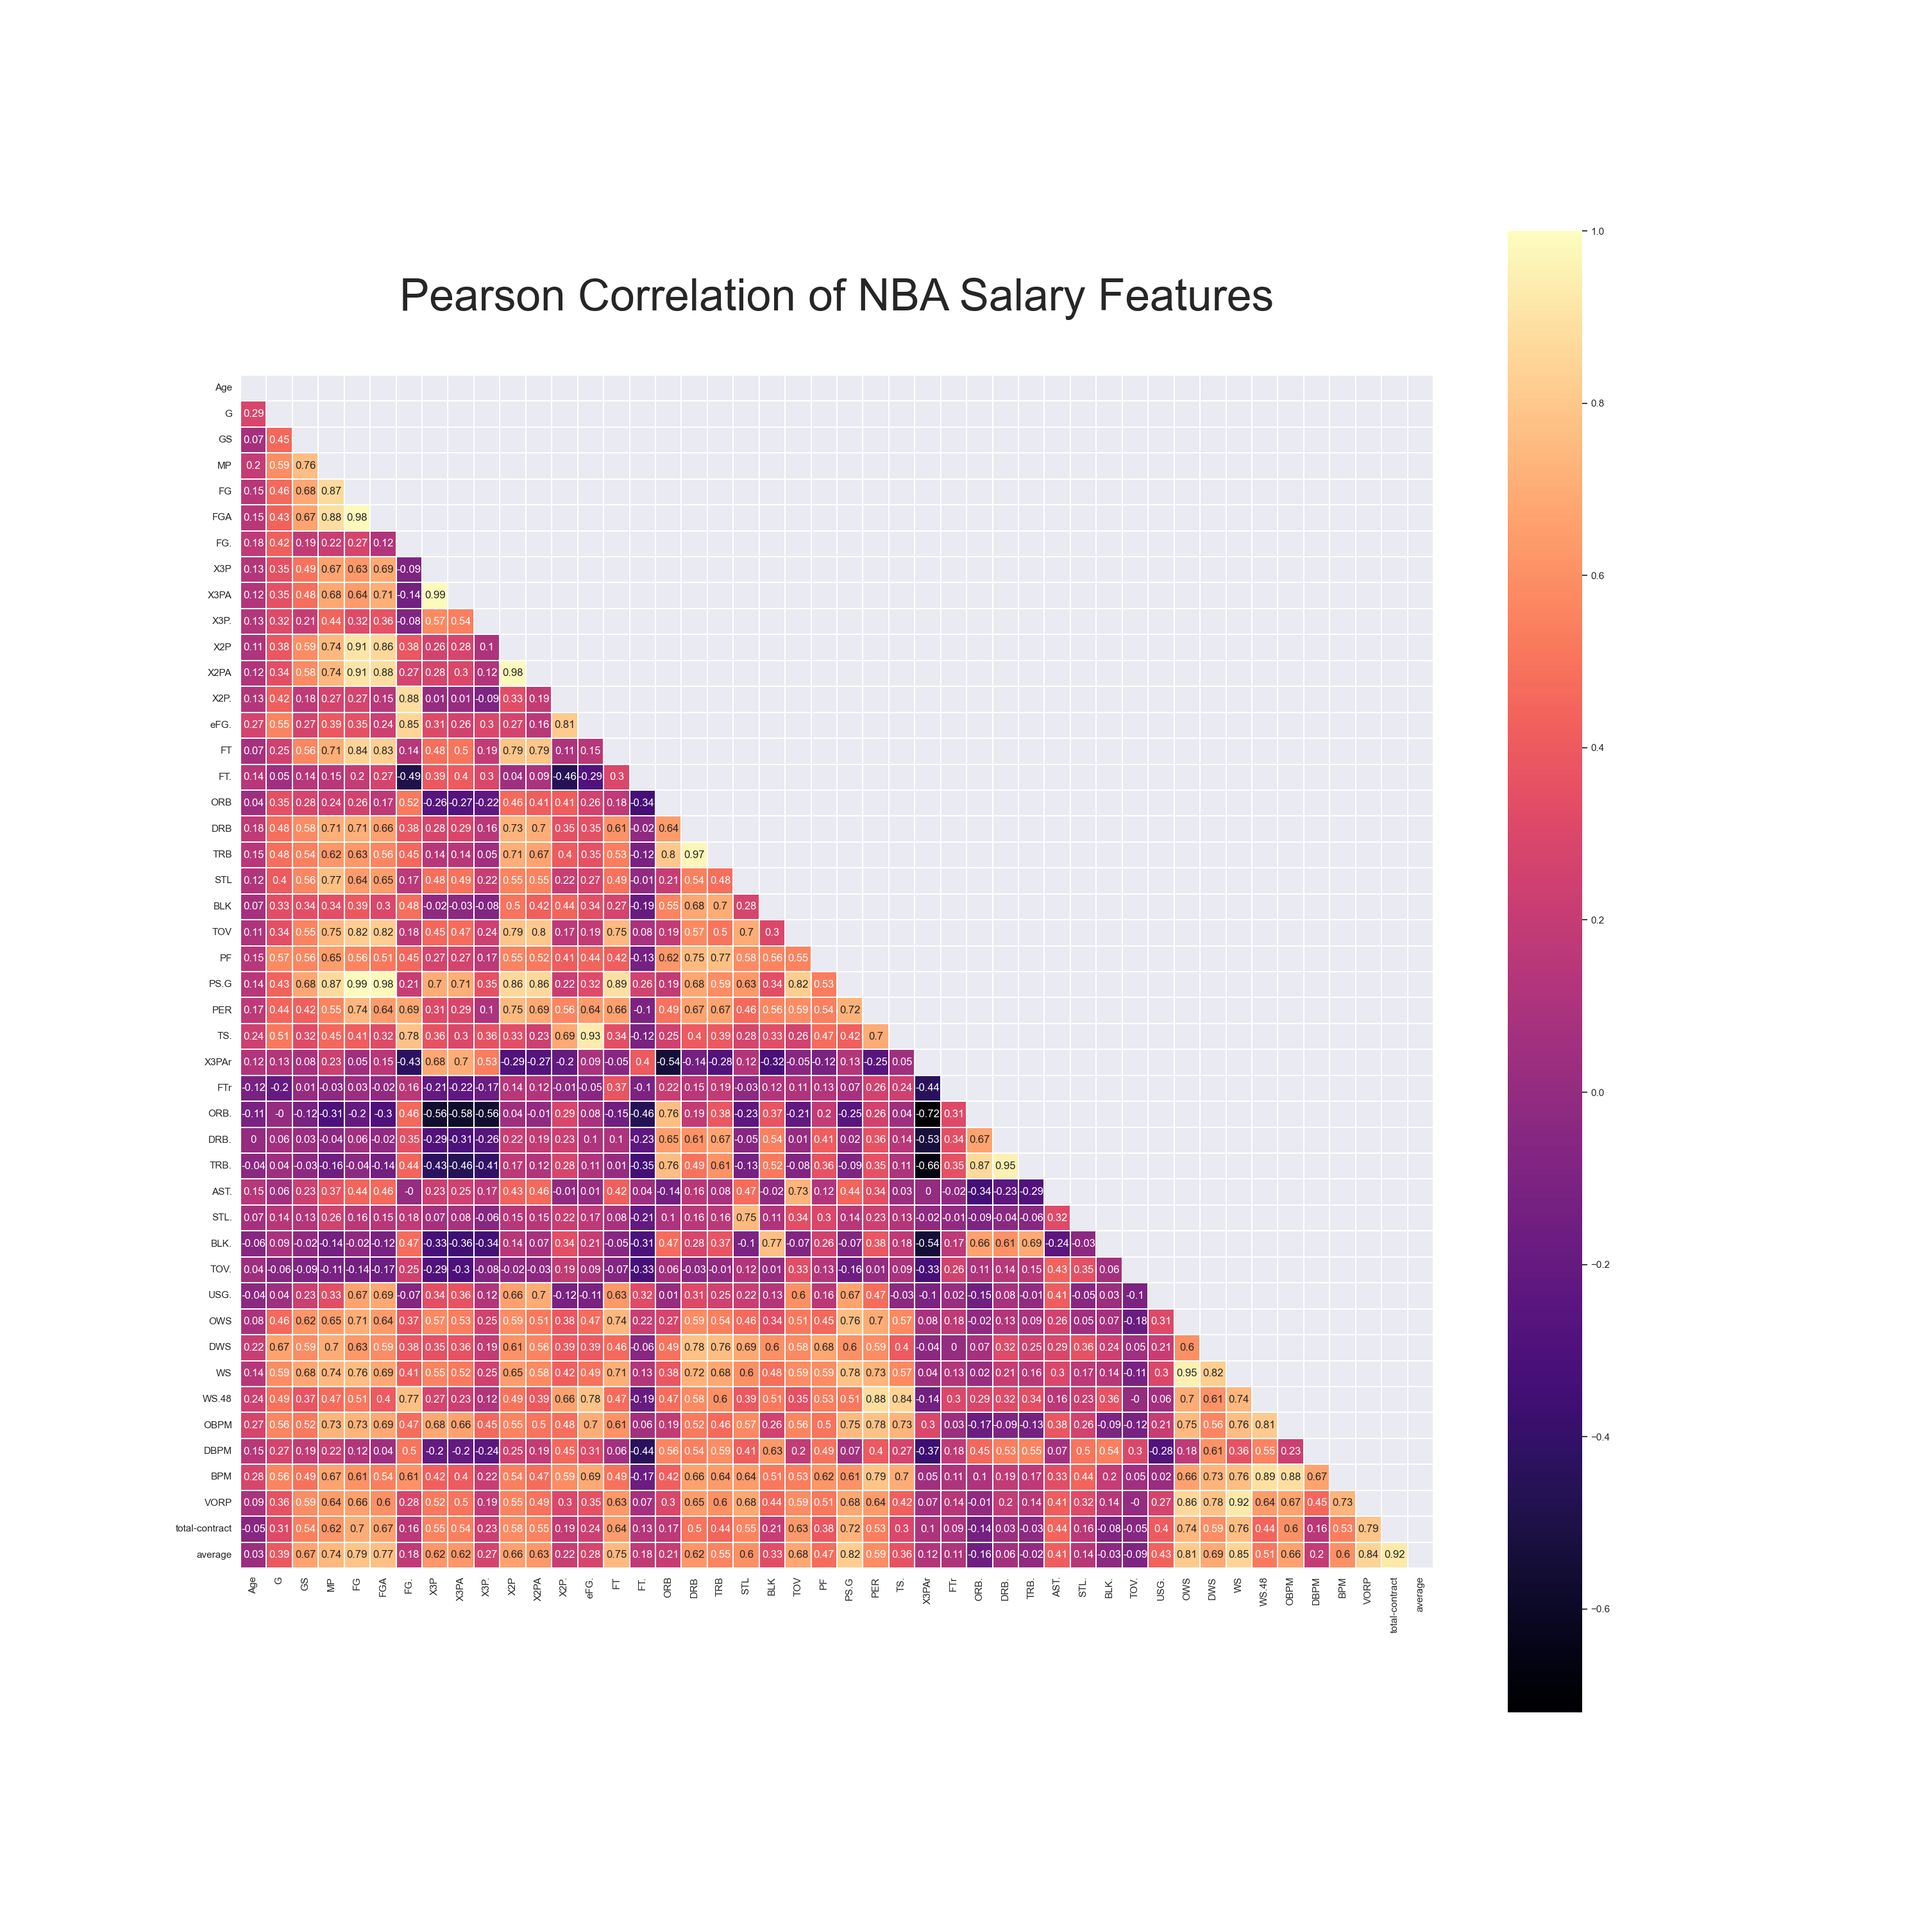
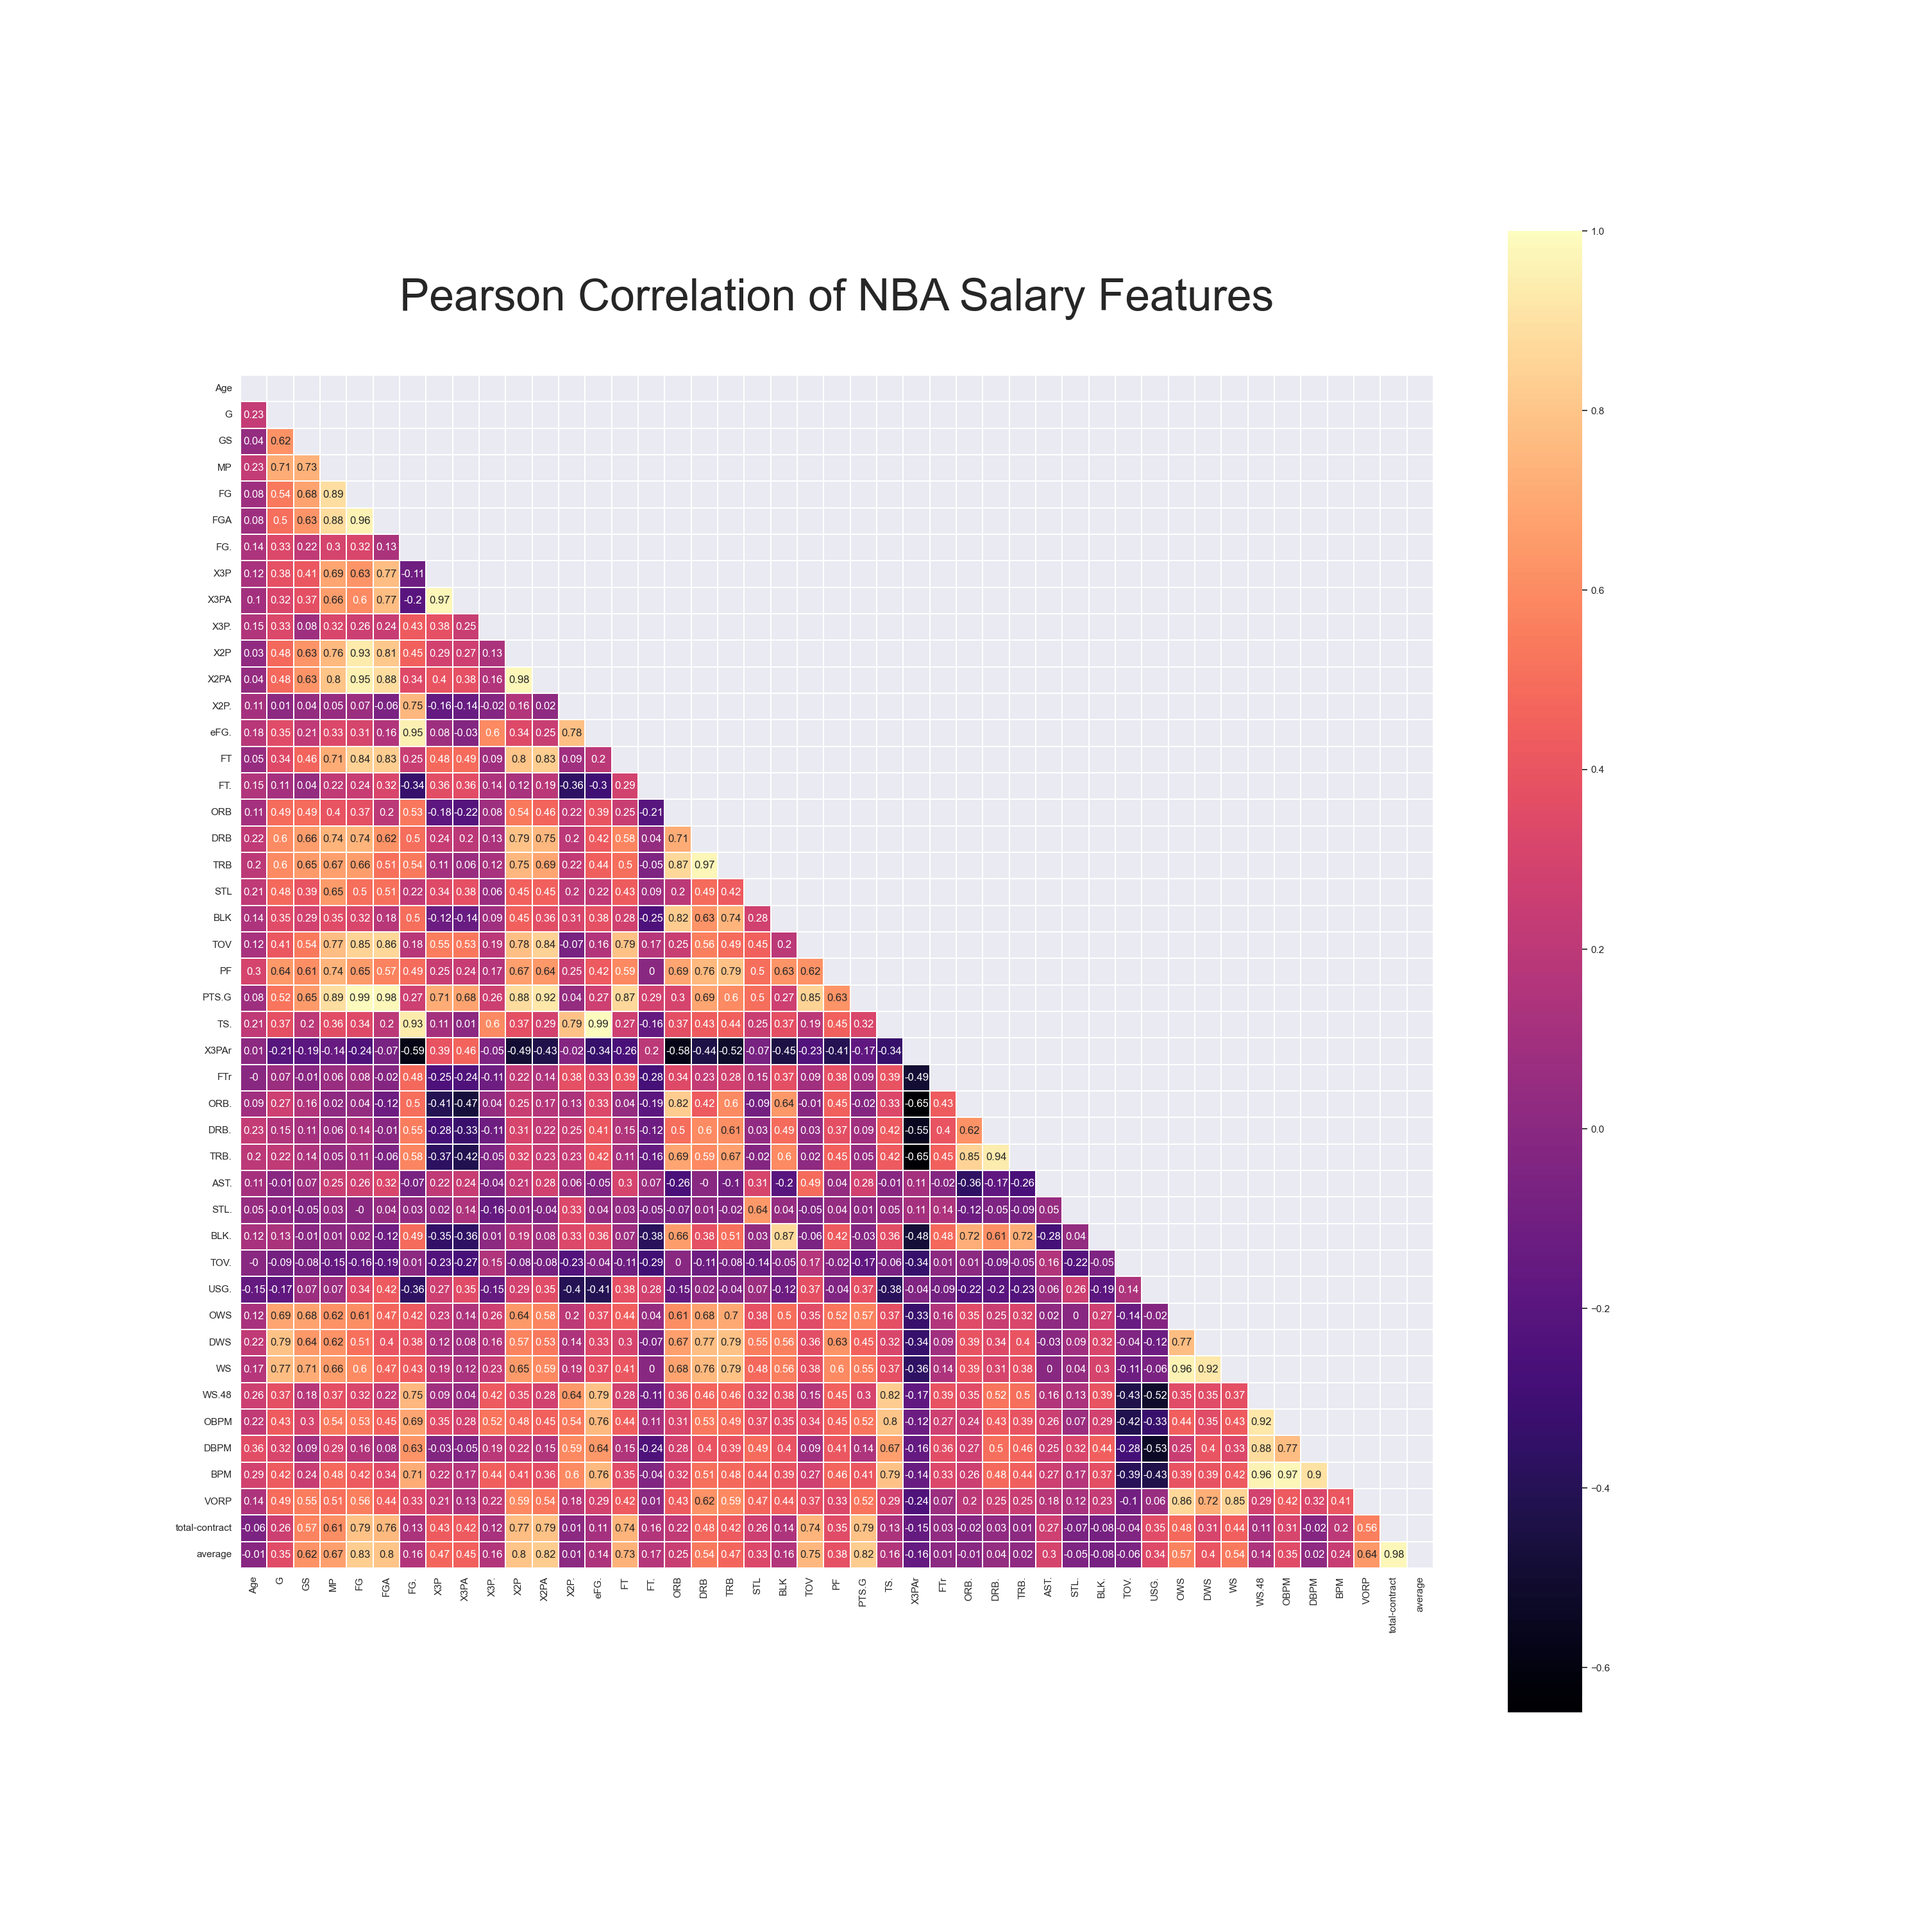
adjustments

Changed region(s): [[0.093, 0.217, 0.744, 0.837]]

diff --git a/visualizations/correlation_table.py b/visualizations/correlation_table.py
@@ -3,70 +3,71 @@ import pandas as pd
 import seaborn as sns
 import matplotlib.pyplot as plt
 
-adv_stats = pd.read_csv('/Users/annamartirosyan/PycharmProjects/NBA_salaries/data/player_data_wrangled/players2017/Adv_2017wrangled.csv')
-adv_stats.drop(adv_stats.columns[[0, 1, 20, 25, 3, 4, 5, 6, 7, 30]], axis = 1, inplace = True)
-print(adv_stats.columns)
-
-
 adv_stats = pd.read_csv('/Users/annamartirosyan/PycharmProjects/NBA_salaries/data/player_data_wrangled/players2022/Adv_2022wrangled.csv')
-adv_stats.drop(adv_stats.columns[[0, 1, 20, 25, 3, 4, 5, 6, 7, 30]], axis = 1, inplace = True)
-print(adv_stats.columns)
+adv_stats.drop(adv_stats.columns[[0, 1,  3, 4, 5, 18, 23,28,29]], axis = 1, inplace = True)
 
-#
-# perGame = pd.read_csv('/Users/annamartirosyan/PycharmProjects/NBA_salaries/data/player_data_wrangled/players22/PerGame_2022wrangled.csv')
-# perGame.drop(perGame.columns[[0, 1, 20, 25]], axis=1, inplace=True)
-# # print(perGame.columns)
-#
-# perGameAdv = perGame.merge(adv_stats, on='Player', how='inner')
-# # print(perGameAdv.columns)
-#
-# fa = pd.read_csv('/Users/annamartirosyan/PycharmProjects/NBA_salaries/data/salary_data/fixed_fa_signings/2022.csv')
-# fa.drop(fa.columns[[0, 1, 2, 3, 4, 5, 6]], axis=1, inplace=True)
-# # print(fa.columns)
-#
-# final = perGameAdv.merge(fa, left_on = 'fix', right_on = 'name', how = 'inner')
-# # drop 'fix' and 'name'
-# final.drop(final.columns[[27]], axis = 1, inplace = True)
-# final.head()
-# final2 = final.copy(deep=True)
-#
-# final.drop(final.columns[[0, 1, 3, 49]], axis = 1, inplace = True)
-#
-# #Check correlation between features
-# colormap = plt.cm.magma
-# sns.set(font_scale=1)
-# plt.figure(figsize=(30,30))
-#
-# plt.title('Pearson Correlation of NBA Salary Features', y=1.05, size=50)
-#
-# #make all values floating points, compute pairwise correlation of columns,
-# # excluding NA/null values
-#
-# corr = final.astype(float).corr().round(2)
-# mask = np.zeros_like(corr, dtype=bool)
-#
-# # mask upper diagonal of heatmap
-# mask[np.triu_indices_from(mask)] = True
-#
-# fig1 = sns.heatmap(corr,
-#                    mask=mask,
-#                    linewidths=0.1,
-#                    vmax=1.0,
-#                    square=True,
-#                    cmap=colormap,
-#                    linecolor='white',
-#                    annot=True)
-#
-# fig1.figure.savefig("correlation_table.png")
-#
-# ########################################################################################################################
-#
-# #Selecting candidates
-# final2.drop(final2.columns[[0, 1, 2, 3, 4, 5, 9, 10, 11, 12, 13, 14, 15, 16, 18, 19, 21,
-#                          25, 28, 29, 30, 31, 32, 33, 34, 35, 36, 37, 38, 39,
-#                          41, 42, 49]], axis = 1, inplace = True)
+
+perGame = pd.read_csv('/Users/annamartirosyan/PycharmProjects/NBA_salaries/data/player_data_wrangled/players2022/PerGame_2022wrangled.csv')
+perGame.drop(perGame.columns[[0, 1, 18, 23]], axis=1, inplace=True)
+
+perGameAdv = perGame.merge(adv_stats, on='Player', how='inner')
+
+fa = pd.read_csv('/Users/annamartirosyan/PycharmProjects/NBA_salaries/data/salary_data/fixed_fa_signings/2022.csv')
+fa.drop(fa.columns[[0,2,3,4,5,6,7,10]], axis=1, inplace=True)
+
+
+final = perGameAdv.merge(fa, left_on = 'fix', right_on = 'name', how = 'inner')
+# drop 'fix' and 'name'
+final.drop(final.columns[[27]], axis = 1, inplace = True)
+final.head()
+final2 = final.copy(deep=True)
+print(final.columns)
+final.drop(final.columns[[0, 26,25, 46]], axis = 1, inplace = True)
+
+# Check correlation between features
+colormap = plt.cm.magma
+sns.set(font_scale=1)
+plt.figure(figsize=(30,30))
+
+plt.title('Pearson Correlation of NBA Salary Features', y=1.05, size=50)
+
+#make all values floating points, compute pairwise correlation of columns,
+# excluding NA/null values
+
+corr = final.astype(float).corr().round(2)
+mask = np.zeros_like(corr, dtype=bool)
+
+# mask upper diagonal of heatmap
+mask[np.triu_indices_from(mask)] = True
+
+fig1 = sns.heatmap(corr,
+                   mask=mask,
+                   linewidths=0.1,
+                   vmax=1.0,
+                   square=True,
+                   cmap=colormap,
+                   linecolor='white',
+                   annot=True)
+
+fig1.figure.savefig("correlation_table.png")
+
+########################################################################################################################
+print(final2.columns)
+#Selecting candidates
+final2.drop(final2.columns[[0, 1, 2, 3, 4, 5, 9, 10, 11, 12, 13, 14, 15, 16, 18, 19, 21,
+                         25, 28, 29, 30, 31, 32, 33, 34, 35, 36, 37, 38, 39,
+                         41, 42]], axis = 1, inplace = True)
 # print(final2.columns)
 #
+
+#
+# Index(['MP', 'FG', 'FGA', 'FT', 'DRB', 'STL', 'BLK', 'TOV', 'PS.G', 'PER',
+#        'DWS', 'OBPM', 'DBPM', 'BPM', 'VORP', 'total-contract', 'average'],
+#       dtype='object')
+ #piti mnan sranq
+
+
+
 # #Check correlation between features
 # sns.set(font_scale=2)
 # colormap = plt.cm.magma
